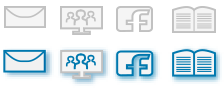
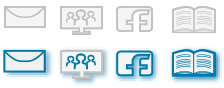
mejora de pantalla de cargando
nuevos botones, quitado el correo, tab index en header y footer

diff --git a/header.html b/header.html
@@ -1,17 +1,15 @@
 <div id="fondoHeader">
 	<div id="enlacesPermanentes">
+		<a href="home.html" class="invisible" tabindex="1">home</a>
 		<div id="biblioteca">
-			<a href="biblioteca.html">biblioteca</a>
+			<a href="biblioteca.html" tabindex="4">biblioteca</a>
 		</div>
 		<div id="facebook">
-			<a target="_blank" href="https://es-la.facebook.com/fundacion.itineris">Facebook Itineris</a>
+			<a target="_blank" href="https://es-la.facebook.com/fundacion.itineris" tabindex="3">Facebook Itineris</a>
 		</div>
 		<div id="cursosVirtuales">
-			<a target="_blank" href="http://itineris.org.ar/moodle20">Cursos Virtuales</a>
-		</div>
-		<div id="correo" >
-			<a target="_blank" href="http://www.itineris.org.ar/webmail/">Correo de Itineris</a>
-		</div>
+			<a target="_blank" href="http://itineris.org.ar/moodle20" tabindex="2">Cursos Virtuales</a>
+		</div>		
 	</div>
 	<div id="logo">
 		&nbsp;
@@ -19,19 +17,19 @@
 </div>
 <div id="menu">
 	<div class="itemmenu ultimo">
-		<a href="contacto.html">Contacto</a>
+		<a href="contacto.html" tabindex="14">Contacto</a>
 	</div>
 	<div class="itemmenu">
-		<a href="donar.html">Donar para Transformar</a>
+		<a href="donar.html" tabindex="13">Donar para Transformar</a>
 	</div>
 	<div class="itemmenu">
-		<a href="consultoria.html">Consultoría y Herramientas</a>
+		<a href="consultoria.html" tabindex="12">Consultoría y Herramientas</a>
 	</div>
 	<div class="itemmenu">
-		<a href="cursosytalleres.html">Cursos y talleres</a>
+		<a href="cursosytalleres.html" tabindex="11">Cursos y talleres</a>
 	</div>
 	<div class="itemmenu">
-		<a href="fundacion.html">Fundación</a>
+		<a href="fundacion.html" tabindex="10">Fundación</a>
 	</div>
 
 </div>

diff --git a/js/fundacion.js b/js/fundacion.js
@@ -1,4 +1,6 @@
 $(document).ready(function() {
+	$.blockUI({ css: { backgroundColor: '#0078AD', color: '#fff', top: '20%', left: '30%'},
+		message: '<img src="css/images/loading.gif" /> '  });
 	var navegacion = {};
 
 	navegacion["fundacion"] = "pages/fundacion/fundacionprincipal.html";
@@ -21,7 +23,7 @@ $(document).ready(function() {
 		$(linkS).removeClass("linkSeleccionado");
 		$(this).addClass("linkSeleccionado");
 		linkS = this;
-
+		
 		$('#cuerpoGrande').fadeOut('slow', function() {
 			$('#cuerpoGrande > #tituloSeccion').html($(linkS).html());
 
@@ -39,7 +41,7 @@ $(document).ready(function() {
 				//$('#cuerpoContenido').html('CAMBIO');
 
 			});
-
+			
 		});
 	});
 
@@ -53,7 +55,7 @@ $(document).ready(function() {
 			linkS = this;
 			var nombreLink = $(linkS).attr("rel");
 
-			$('#wrapper').fadeOut('slow', function() {
+			$('#cuerpoGrande').fadeOut('slow', function() {
 				$('#cuerpoGrande > #tituloSeccion').html($(linkS).html());
 
 				$.get(navegacion[$(linkS).attr("rel")], function(msg) {
@@ -75,7 +77,7 @@ $(document).ready(function() {
 						});
 					}
 
-					$('#wrapper').fadeIn('slow');
+					$('#cuerpoGrande').fadeIn('slow');
 					//tomar tamaño letra elegido
 					$('#cuerpoContenido > p').css("font-size", $('#tamanioLetra').slider("option", "value"));
 					var altura1 = $("html").height() - $("#header").height() - $("#footer").height() - 5;
@@ -87,9 +89,10 @@ $(document).ready(function() {
 					//$('#cuerpoContenido').html('CAMBIO');
 
 				});
+				
 
 			});
 		});
 	});
-
+$.unblockUI();
 });

diff --git a/footer.html b/footer.html
@@ -3,25 +3,25 @@
 		<h1>Novedades</h1>
 		<ul>
 			<li>
-				<a href="noticias.html?noticia=pedro">Pedro Aznar apadrina a los autogestores</a>
+				<a href="noticias.html?noticia=pedro" tabindex="50">Pedro Aznar apadrina a los autogestores</a>
 			</li>
 			<li>
-				<a href="noticias.html?noticia=pff">Programa de Formación de Facilitadores Voluntarios en Autogestión y discapacidad intelectual</a>
+				<a href="noticias.html?noticia=pff" tabindex="51">Programa de Formación de Facilitadores Voluntarios en Autogestión y discapacidad intelectual</a>
 			</li>
 			<li>
-				<a href="noticias.html?noticia=congRosa">Congreso Internacional de Rosario</a>
+				<a href="noticias.html?noticia=congRosa" tabindex="52">Congreso Internacional de Rosario</a>
 			</li>
 		</ul>
-		<h2><a href="noticias.html"> más noticias... </a></h2>
+		<h2><a href="noticias.html" tabindex="53"> más noticias... </a></h2>
 	</div>
 	<div class="linkFootUlt">
 		<h1>Socios</h1>
 		<ul>
 			<li>
-				<a target="_blank" href="http://www.parklandclass.org/">PARKLAND C.L.A.S.S.</a>
+				<a target="_blank" href="http://www.parklandclass.org/" tabindex="54">PARKLAND C.L.A.S.S.</a>
 			</li>
 			<li>
-				<a target="_blank" href="https://es-es.facebook.com/autogestores.integrados">Autogestores</a>
+				<a target="_blank" href="https://es-es.facebook.com/autogestores.integrados" tabindex="55">Autogestores</a>
 			</li>
 		</ul>
 	</div>

diff --git a/js/biblio.js b/js/biblio.js
@@ -1,5 +1,6 @@
 $(document).ready(function() {
-
+$.blockUI({ css: { backgroundColor: '#0078AD', color: '#fff', top: '20%', left: '30%'},
+		message: '<img src="css/images/loading.gif" /> '  });
 	$('#cuerpoGrande').css({
 		"min-width" : "850px"
 	});
@@ -60,7 +61,7 @@ $(document).ready(function() {
 			$(this).addClass("linkSeleccionado");
 			linkS = this;
 
-			$('#wrapper').fadeOut('slow', function() {
+			$('#cuerpoGrande').fadeOut('slow', function() {
 				$('#cuerpoGrande > #tituloSeccion').html($(linkS).html());
 
 				$.get(navegacion[$(linkS).attr("rel")], function(msg) {
@@ -88,7 +89,7 @@ $(document).ready(function() {
 					$('.listaD > li').css("font-size", $('#tamanioLetra').slider("option", "value"));
 					var altura1 = $("html").height() - $("#header").height() - $("#footer").height() - 5;
 					//el 5 es por el padding
-					$('#wrapper').fadeIn('slow', function() {
+					$('#cuerpoGrande').fadeIn('slow', function() {
 
 					});
 					var altura2 = $("#cuerpoGrande").height() * 1.1;
@@ -101,6 +102,7 @@ $(document).ready(function() {
 			});
 		});
 	});
+	$.unblockUI();
 });
 var Books = (function() {
 

diff --git a/pages/fundacion/estructura.html b/pages/fundacion/estructura.html
@@ -140,6 +140,23 @@
 		<li>
 			<a href="#" class="pos9"> <span class="ei_preview"></span> <span class="ei_image"></span> </a>
 			<div class="ei_descr">
+				<h1>Angélica Garavaglia</h1>
+
+				<p>
+					Licenciado en Terapia Ocupacional
+				</p>
+				<p>
+					En Itineris es Facilitador de Autogestores
+				</p>
+				<p>
+					Ver CV completo
+				</p>
+				<div class="cv"><a target="_blank" href="archivos/cv/angelicaA.doc"></a></div>
+			</div>
+		</li>
+		<li>
+			<a href="#" class="pos10"> <span class="ei_preview"></span> <span class="ei_image"></span> </a>
+			<div class="ei_descr">
 				<h1>Andrea Aznar</h1>
 
 				<p>
@@ -155,7 +172,7 @@
 			</div>
 		</li>
 		<li>
-			<a href="#" class="pos10"> <span class="ei_preview"></span> <span class="ei_image"></span> </a>
+			<a href="#" class="pos11"> <span class="ei_preview"></span> <span class="ei_image"></span> </a>
 			<div class="ei_descr">
 				<h1>Diego González Castañón</h1>
 

diff --git a/js/home.js b/js/home.js
@@ -55,8 +55,8 @@ function agrandar(objeto) {
 
 
 $(document).ready(function() {
-	$.blockUI({ css: { backgroundColor: '#0078AD', color: '#fff'},
-	message: '<h1><img src="css/images/busy.gif" /> Un momento por favor...</h1>'  });
+	$.blockUI({ css: { backgroundColor: '#0078AD', color: '#fff', top: '20%', left: '30%'},
+	message: '<img src="css/images/loading.gif" /> '  });
 	
 	$.get("header.html", function(msg) {
 		$('#header').html(msg);

diff --git a/css/contenido.css b/css/contenido.css
@@ -134,7 +134,7 @@
 }
 
 .botonFormulario button {
-	background: url('images/button_suscribirse.png');
+	background: url('images/button_inscribirse.png');
 	width: 215px;
 	height: 79px;
 	border: 0;
@@ -142,7 +142,7 @@
 	cursor: pointer;
 }
 .botonFormulario button:hover {
-	background: url('images/button_suscribirse_onhover.png');		
+	background: url('images/button_inscribirse_onhover.png');		
 }
 #wrapAutoGestorEdificio{
 	width: 100%;

diff --git a/js/donar.js b/js/donar.js
@@ -1,5 +1,6 @@
 $(document).ready(function() {
-
+$.blockUI({ css: { backgroundColor: '#0078AD', color: '#fff', top: '20%', left: '30%'},
+		message: '<img src="css/images/loading.gif" /> '  });
 	$.get("header.html", function(msg) {
 		$('#header').html(msg);
 		$.get("footer.html", function(footCont) {
@@ -107,5 +108,5 @@ $('#tamanioLetra').slider({
 			});
 		});
 	});
-
+$.unblockUI();
 });

diff --git a/js/cons.js b/js/cons.js
@@ -1,4 +1,6 @@
 $(document).ready(function() {
+	$.blockUI({ css: { backgroundColor: '#0078AD', color: '#fff', top: '20%', left: '30%'},
+		message: '<img src="css/images/loading.gif" /> '  });
 	var navegacion = {};	
 
 	navegacion["auditoriaycerti"] = "pages/consultoria/auditoriaycerti.html";
@@ -70,6 +72,6 @@ $(document).ready(function() {
 		});
 	});
 	
-
+$.unblockUI();
 	
 });

diff --git a/css/estructura.css b/css/estructura.css
@@ -116,6 +116,10 @@ a:hover{
 	background-position:-279px 0px;
 	z-index: 11;
 }
+.pos11 .ei_preview{
+	background-position:-310px 0px;
+	z-index: 11;
+}
 .pos1 .ei_image{
 	background-position:0px 0px;
 }
@@ -145,6 +149,9 @@ a:hover{
 }
 .pos10 .ei_image{
 	background-position:-1602px 0px;
+}
+.pos11 .ei_image{
+	background-position:-1780px 0px;
 }
 .ei_descr{
 	position:absolute;

diff --git a/donar.html b/donar.html
@@ -11,6 +11,7 @@
 		<link rel="icon" type="image/ico" href="css/img/favicon.png">
 		<script type="text/javascript" src="http://code.jquery.com/jquery-1.10.2.min.js"></script>
 		<script type="text/javascript" src="js/jqueryuimin.js"></script>	
+		<script src="js/jquery.blockUI.js"></script>	
 		<script type="text/javascript" src="js/donar.js"></script>
 	</head>
 	<body>

diff --git a/fundacion.html b/fundacion.html
@@ -14,6 +14,7 @@
 		<script type="text/javascript" src="js/jqueryuimin.js"></script>
 		<link rel="stylesheet" href="css/jqueryuimin.css" type="text/css" media="screen"/>
 		<script type="text/javascript" src="js/basico.js"></script>
+		<script src="js/jquery.blockUI.js"></script>			
 		<script type="text/javascript" src="js/fundacion.js"></script>
 	</head>
 	<body>
